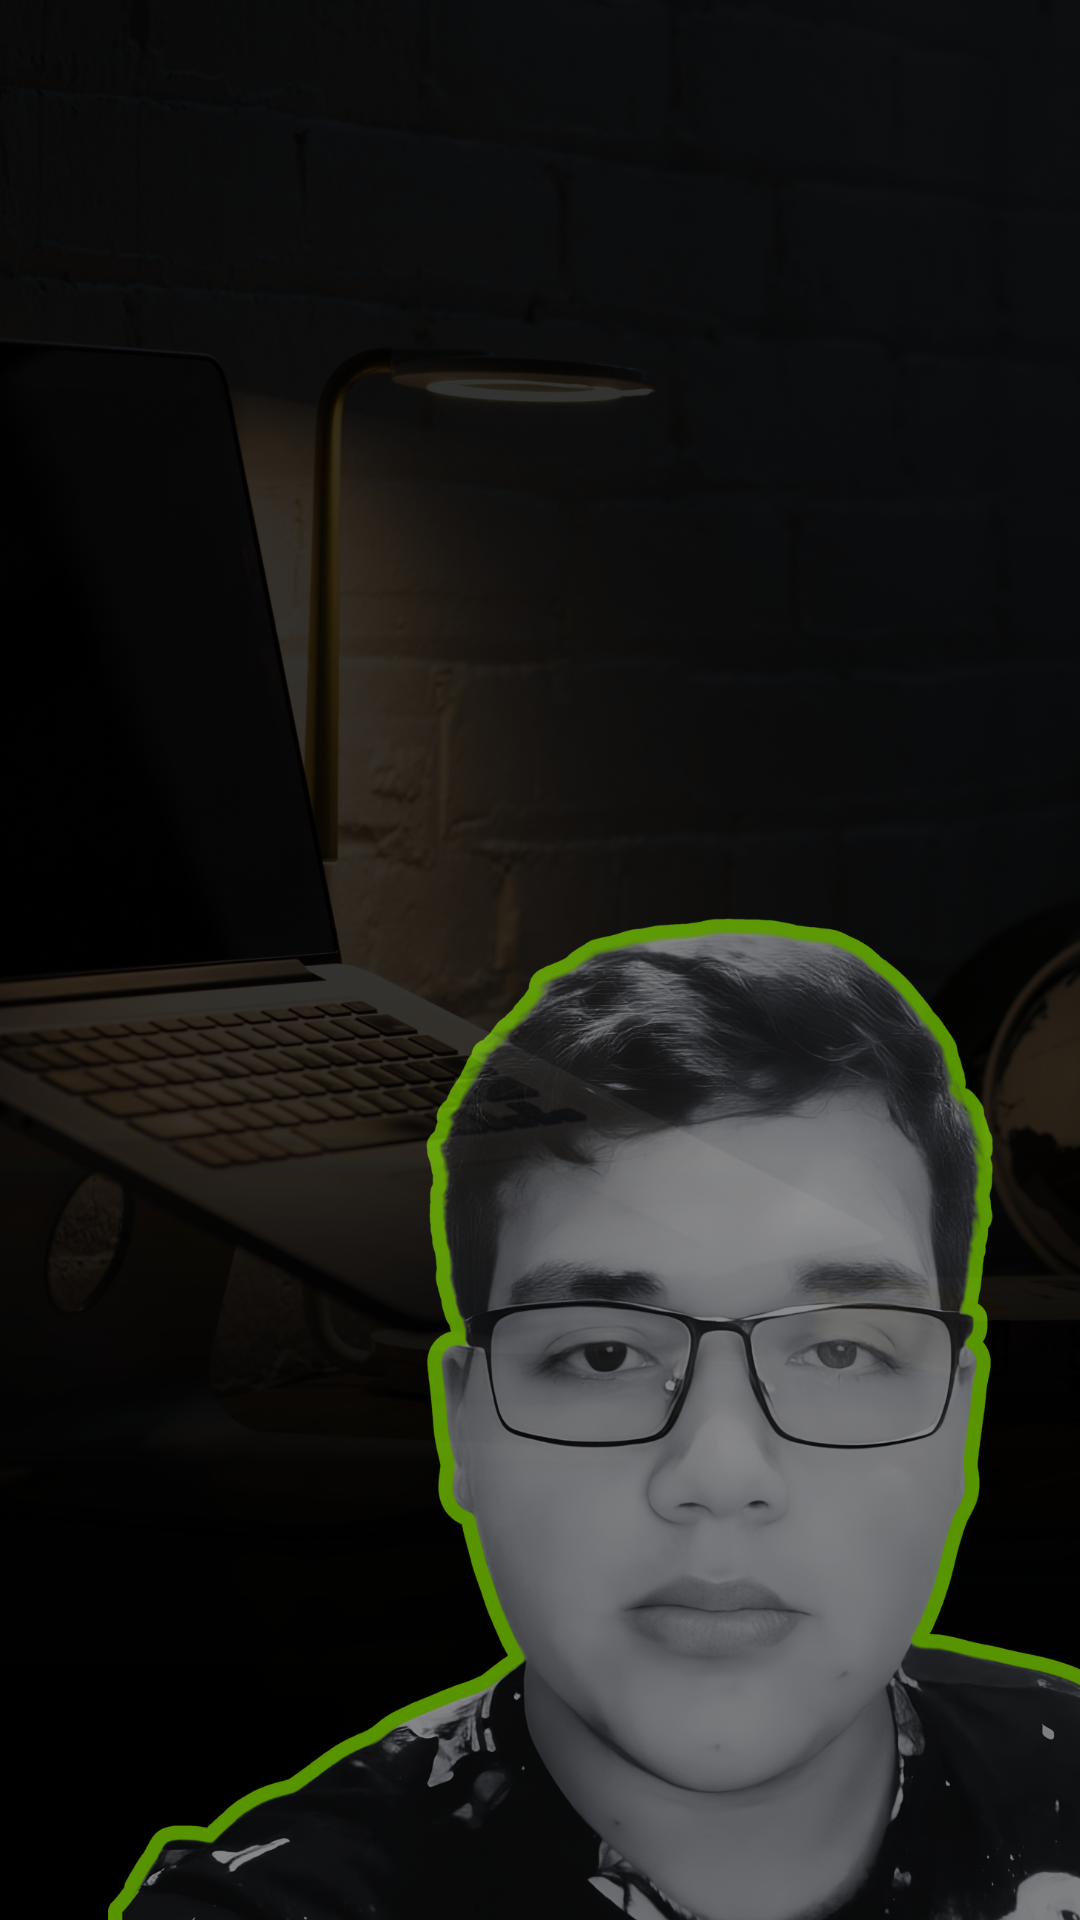
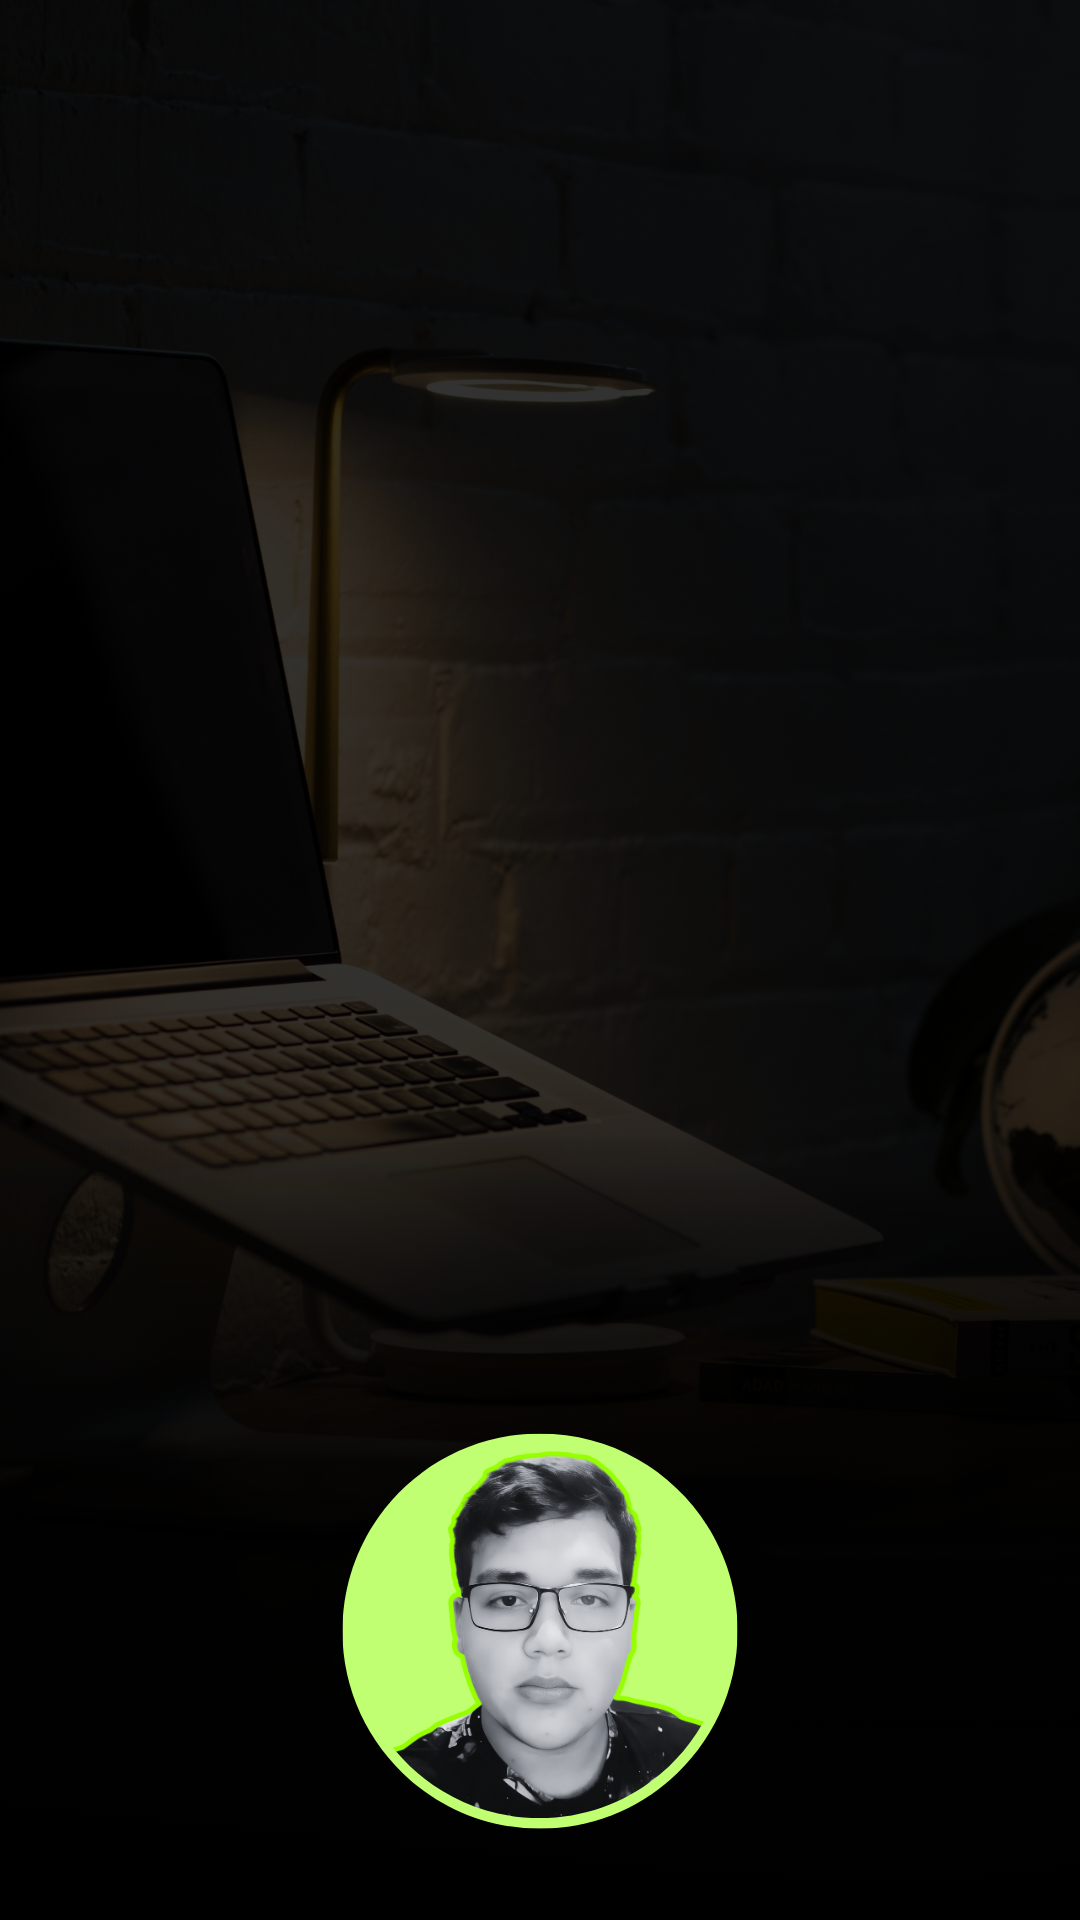
layout adjustments

Changed region(s): [[0.0917, 0.4688, 1.0, 1.0], [0.9167, 0.9688, 1.0, 1.0]]

diff --git a/src/app/modules/portifolio/pages/presentation/presentation.component.scss b/src/app/modules/portifolio/pages/presentation/presentation.component.scss
@@ -76,7 +76,7 @@
 @media (max-width: 500px){
   .container-main {
     background: linear-gradient(to bottom, rgb(0, 0, 0), rgba(0, 0, 0, 0.47)),
-    url("/assets/banner-presentation-responsive.png") no-repeat;
+    url("/assets/banner-presentation-responsive.png") no-repeat center center;
     background-size: cover;
     height: 120vh;
 
